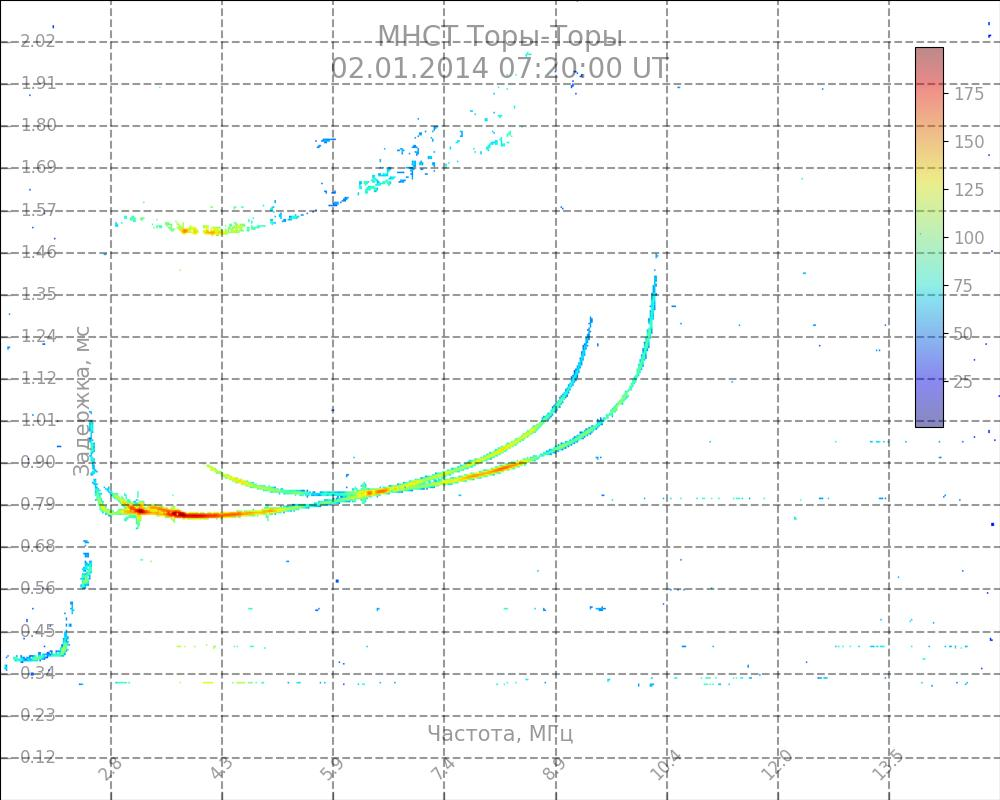
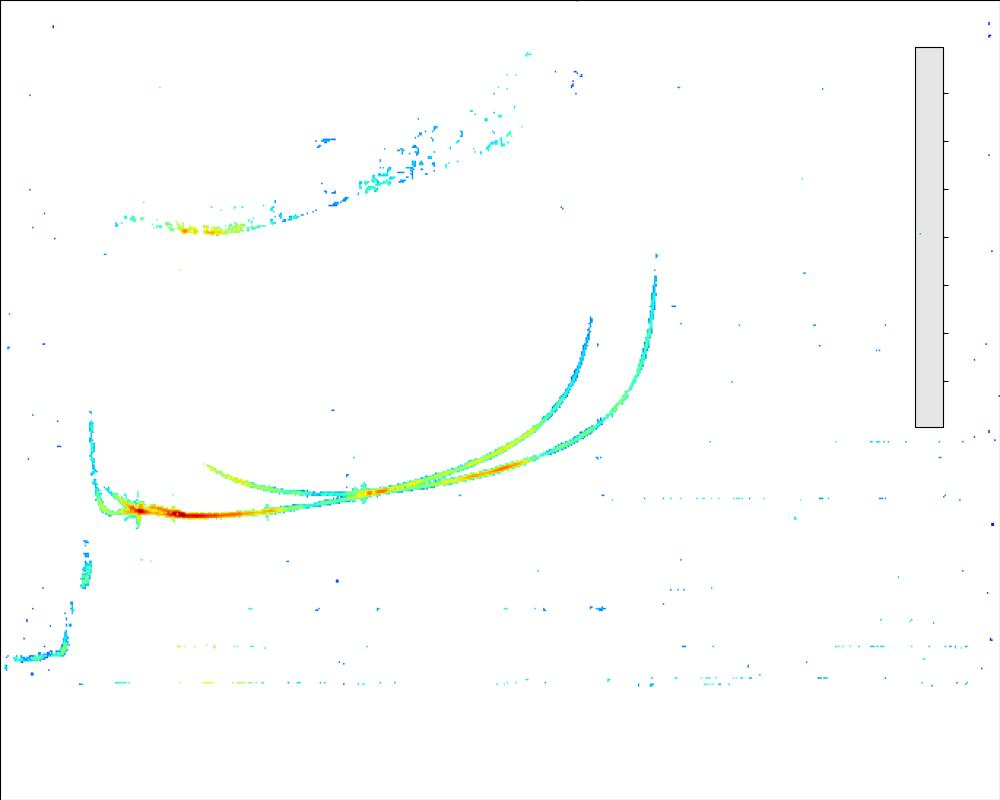
Добавлен ввод одной строкой при запуске программы параметров функции show_ionogram

diff --git a/script.py b/script.py
@@ -1,0 +1,56 @@
+import argparse
+from ionograms_into_images.ionograms_into_images import ShowIonogram
+import ionread_python as ionread
+from ionograms_into_images.simple_builder import SimpleIonogramArrayBuilder
+
+def main():
+    parser = argparse.ArgumentParser(description="Визуализация ионограммы из .dat файла.")
+    parser.add_argument("file_path", type=str, help="Путь к входному .dat файлу")
+    parser.add_argument("--alpha_labels", type=float, default=1.0, help="Прозрачность подписей (0.0 - 1.0)")
+    parser.add_argument("--show_grid", type=str, default='yes', help="Отображение сетки (yes/no)")
+    parser.add_argument("--show_colorbar", type=str, default='yes', help="Отображение цветовой шкалы (yes/no)")
+    parser.add_argument("--title_font_size", type=int, default=20, help="Размер шрифта заголовка")
+    parser.add_argument("--axis_num_font_size", type=int, default=12, help="Размер шрифта чисел на осях")
+    parser.add_argument("--axis_label_font_size", type=int, default=15, help="Размер шрифта подписей осей")
+    parser.add_argument("--colorbar_num_font_size", type=int, default=12, help="Размер чисел на цветовой шкале")
+
+    args = parser.parse_args()
+
+    # Проверка корректности значений
+    if not (0.0 <= args.alpha_labels <= 1.0):
+        parser.error("grid_alpha должен быть в диапазоне [0.0, 1.0]")
+    if args.show_grid.lower() not in ['yes', 'no']:
+        parser.error("show_grid должен быть 'yes' или 'no'")
+    if args.show_colorbar.lower() not in ['yes', 'no']:
+        parser.error("show_colorbar должен быть 'yes' или 'no'")
+
+
+    try:
+        ionogram = ionread.read_ionogram(args.file_path)
+
+        ionogram_array_builder = SimpleIonogramArrayBuilder(ionogram=ionogram).process()
+        ionogram_array = ionogram_array_builder.get_ndarray()
+
+        ShowIonogram.show_ionogram(
+            ionogram = ionogram,
+            ion_arr = ionogram_array,
+            alpha_labels = args.alpha_labels,
+            show_grid = args.show_grid,
+            show_colorbar = args.show_colorbar,
+            title_font_size = args.title_font_size,
+            axis_num_font_size = args.axis_num_font_size,
+            axis_label_font_size = args.axis_label_font_size,
+            colorbar_num_font_size = args.colorbar_num_font_size
+        )
+
+    except Exception as e:
+        parser.error(f"Ошибка при обработке файла: {e}")
+
+
+if __name__ == "__main__":
+    main()
+
+
+# Пример запуска программы
+# python script.py test_data/03_02_05_08_00.dat --alpha_labels 0.5 --show_grid yes --show_colorbar yes --title_font_size 20 --axis_num_font_size 12 --axis_label_font_size 15 --colorbar_num_font_size 12
+# python script.py test_data/01_02_07_20_00.dat --alpha_labels 1 --show_grid yes --show_colorbar yes --title_font_size 20 --axis_num_font_size 12 --axis_label_font_size 15 --colorbar_num_font_size 12
